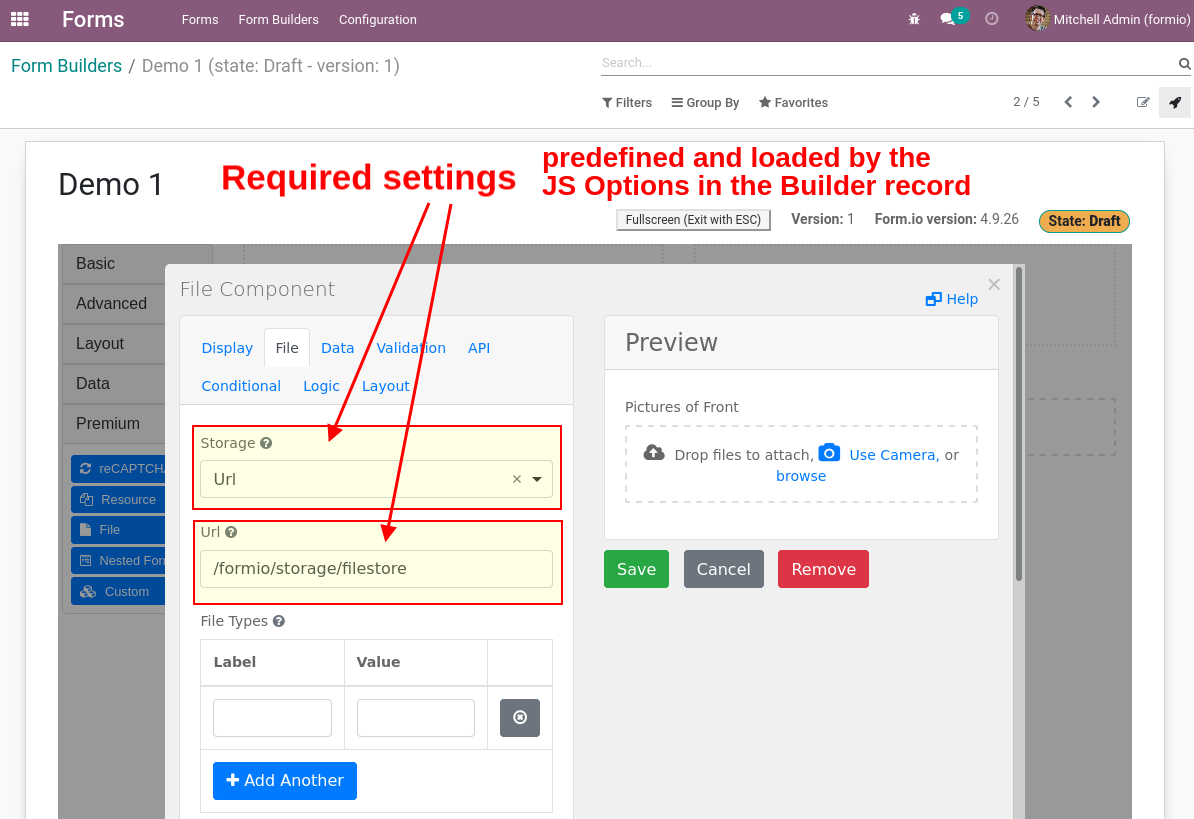
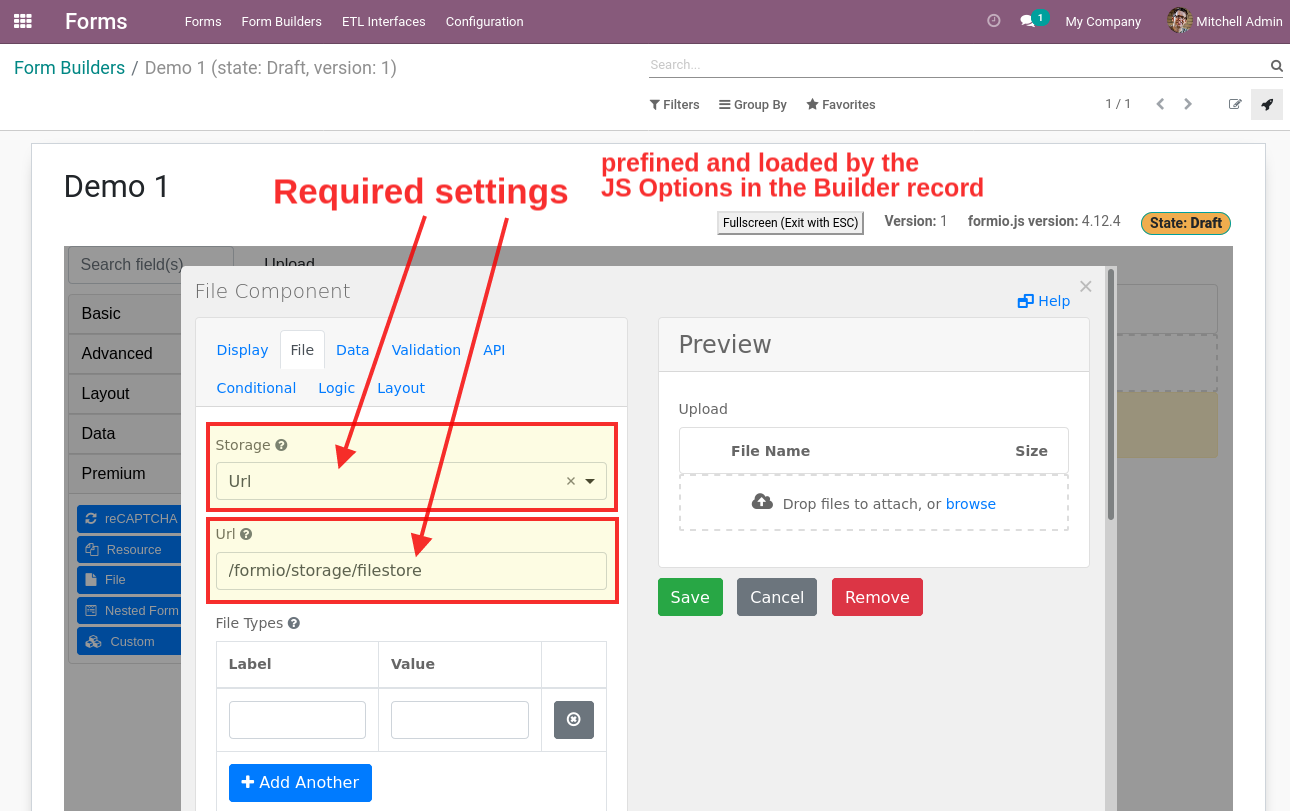
[IMP] Correct naming of the formio.js library references.

Changed region(s): [[0.0, 0.0, 1.0, 1.0], [0.5268, 0.4007, 0.6198, 0.4624], [0.031, 0.2158, 0.1549, 0.2466]]

diff --git a/formio/static/description/index.html b/formio/static/description/index.html
@@ -45,10 +45,6 @@
         </td>
       </tr>
       <tr>
-        <td><strong>On-premise</strong></td>
-        <td>All software and data stays on your server and Odoo database: Form Builders, Form Submissions etc.</td>
-      </tr>
-      <tr>
         <td><strong>Highly configurable</strong></td>
         <td>Easily configure your Forms deployment, publishing and other functionalities (done in the Form Builder).</td>
       </tr>
@@ -70,7 +66,7 @@
       </tr>
       <tr>
         <td><strong>Upgrade-tool formio.js library assets</strong></td>
-        <td>Upgrade the formio.js library assets (builder, forms) when a new version is available, by just a few clicks.</td>
+        <td>Upgrade the formio.js library assets (js, css) when a new version is available, by just a few clicks.</td>
       </tr>
       <tr>
         <td><strong>Developer Friendly</strong></td>
